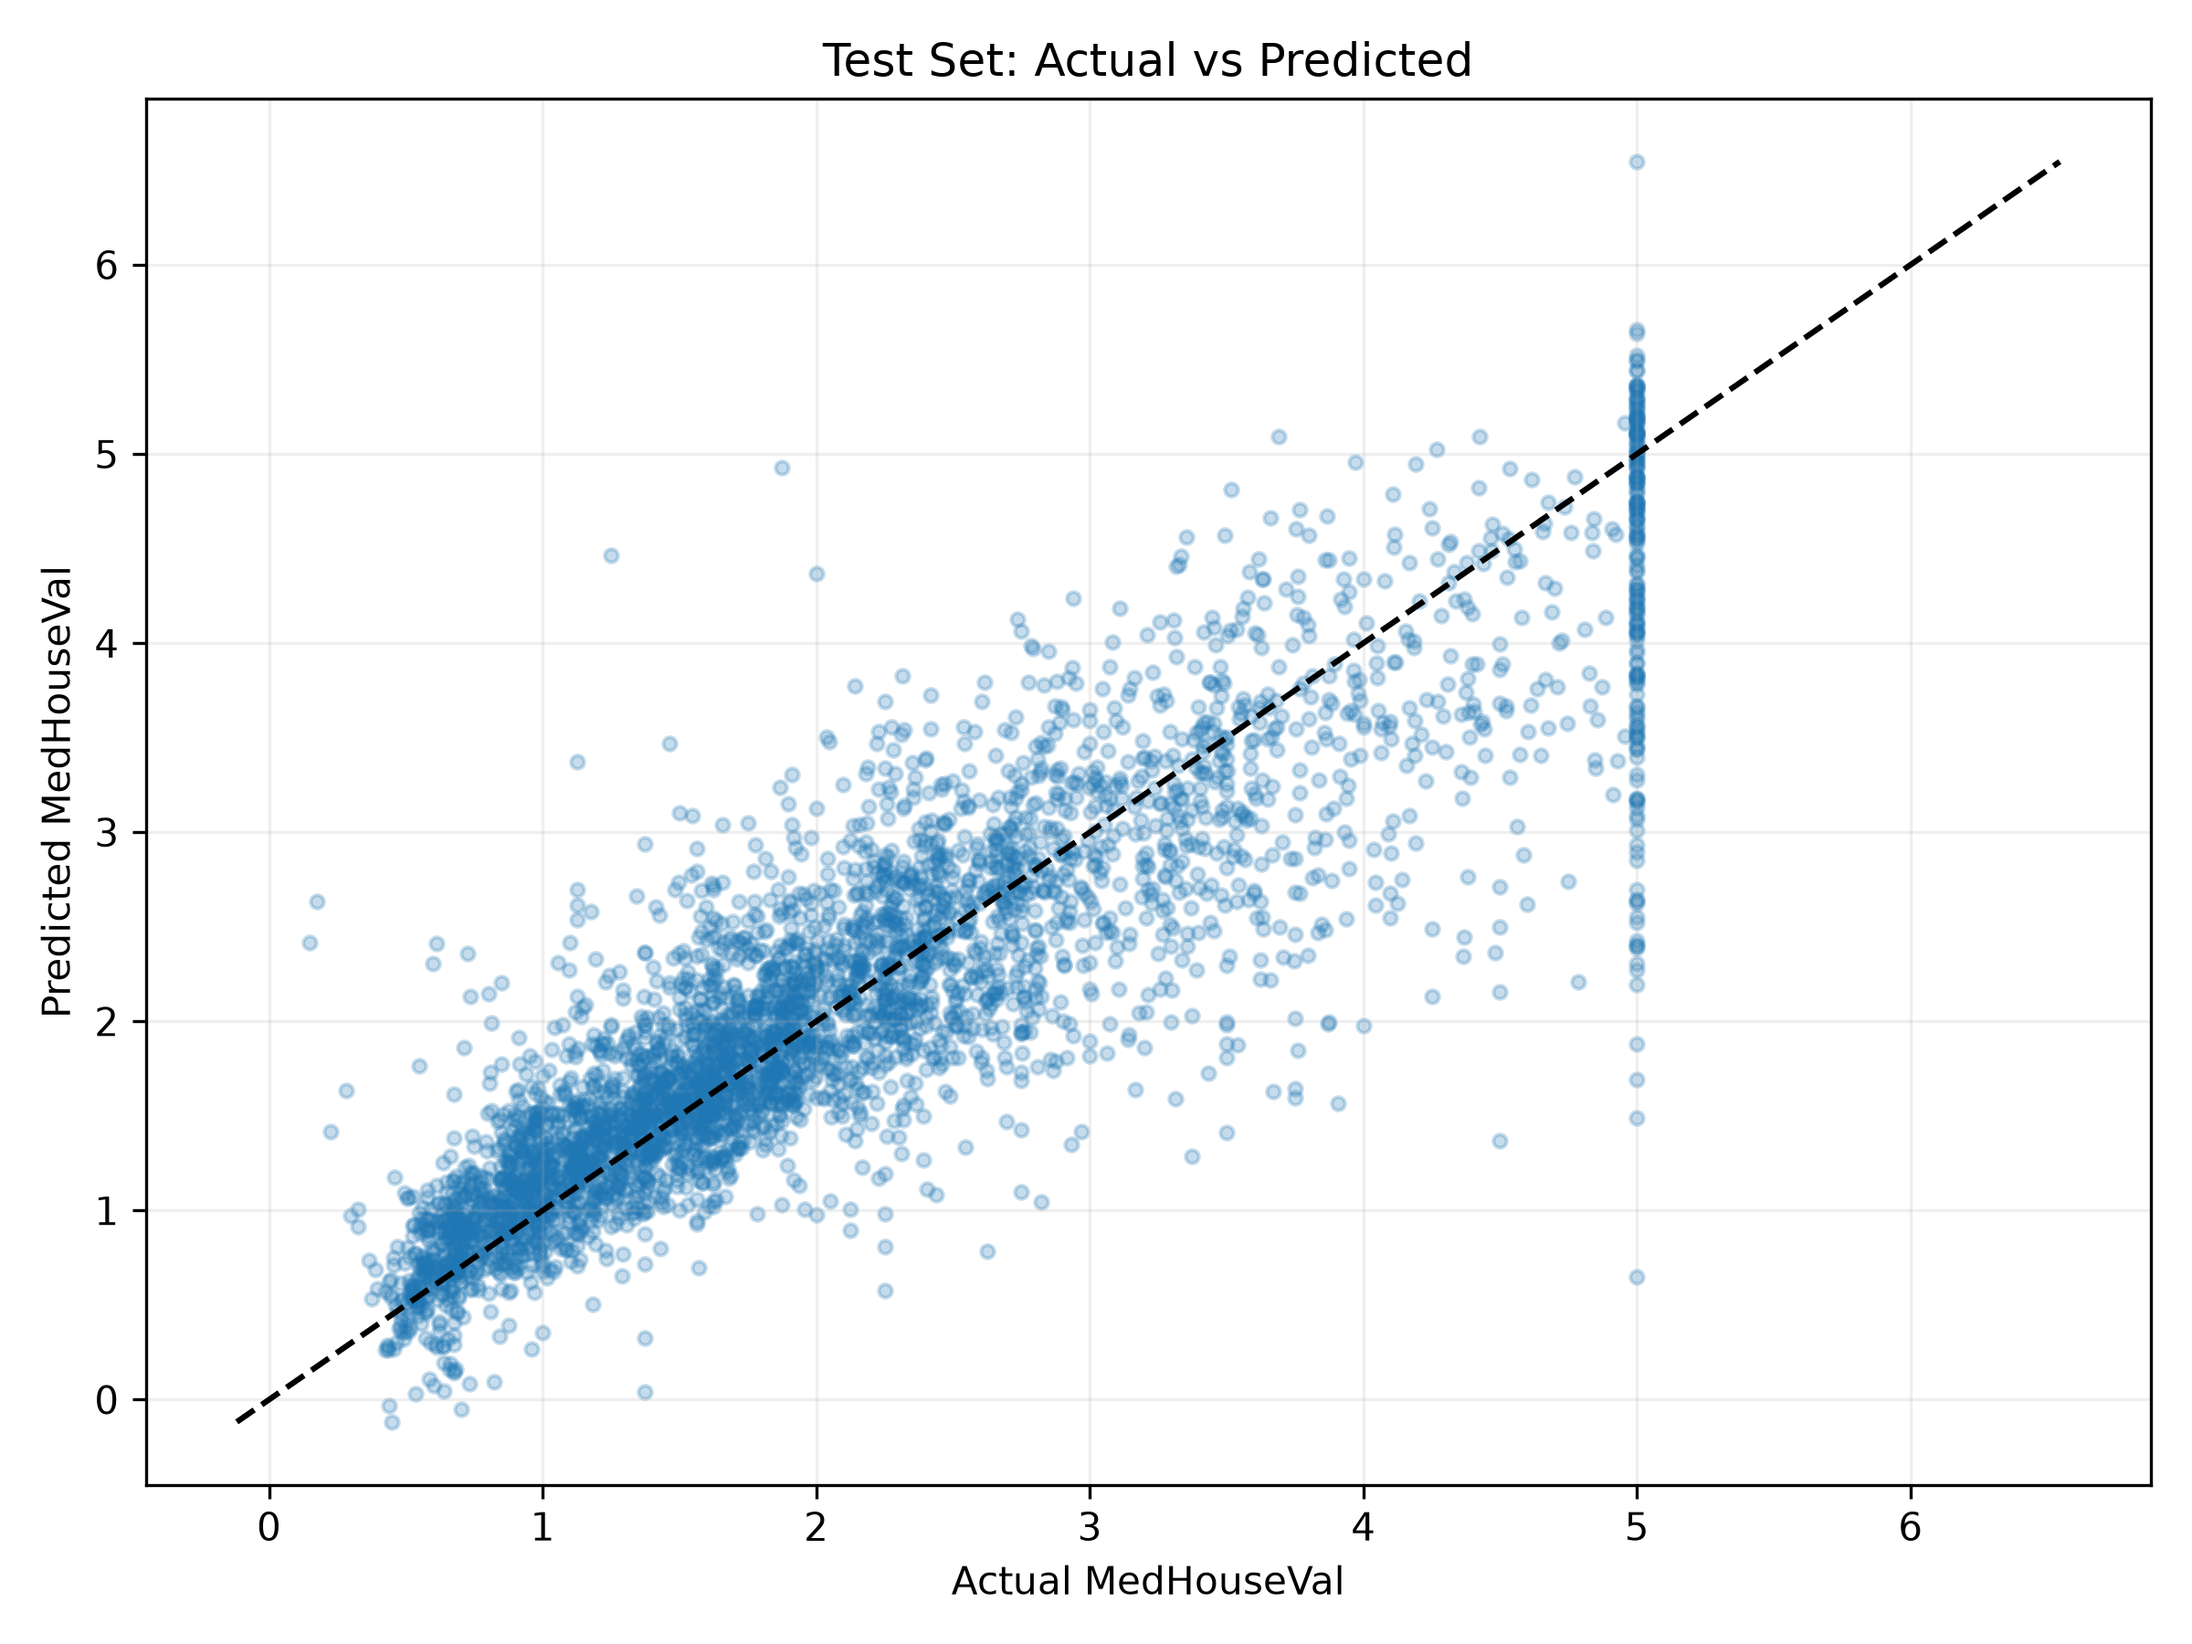
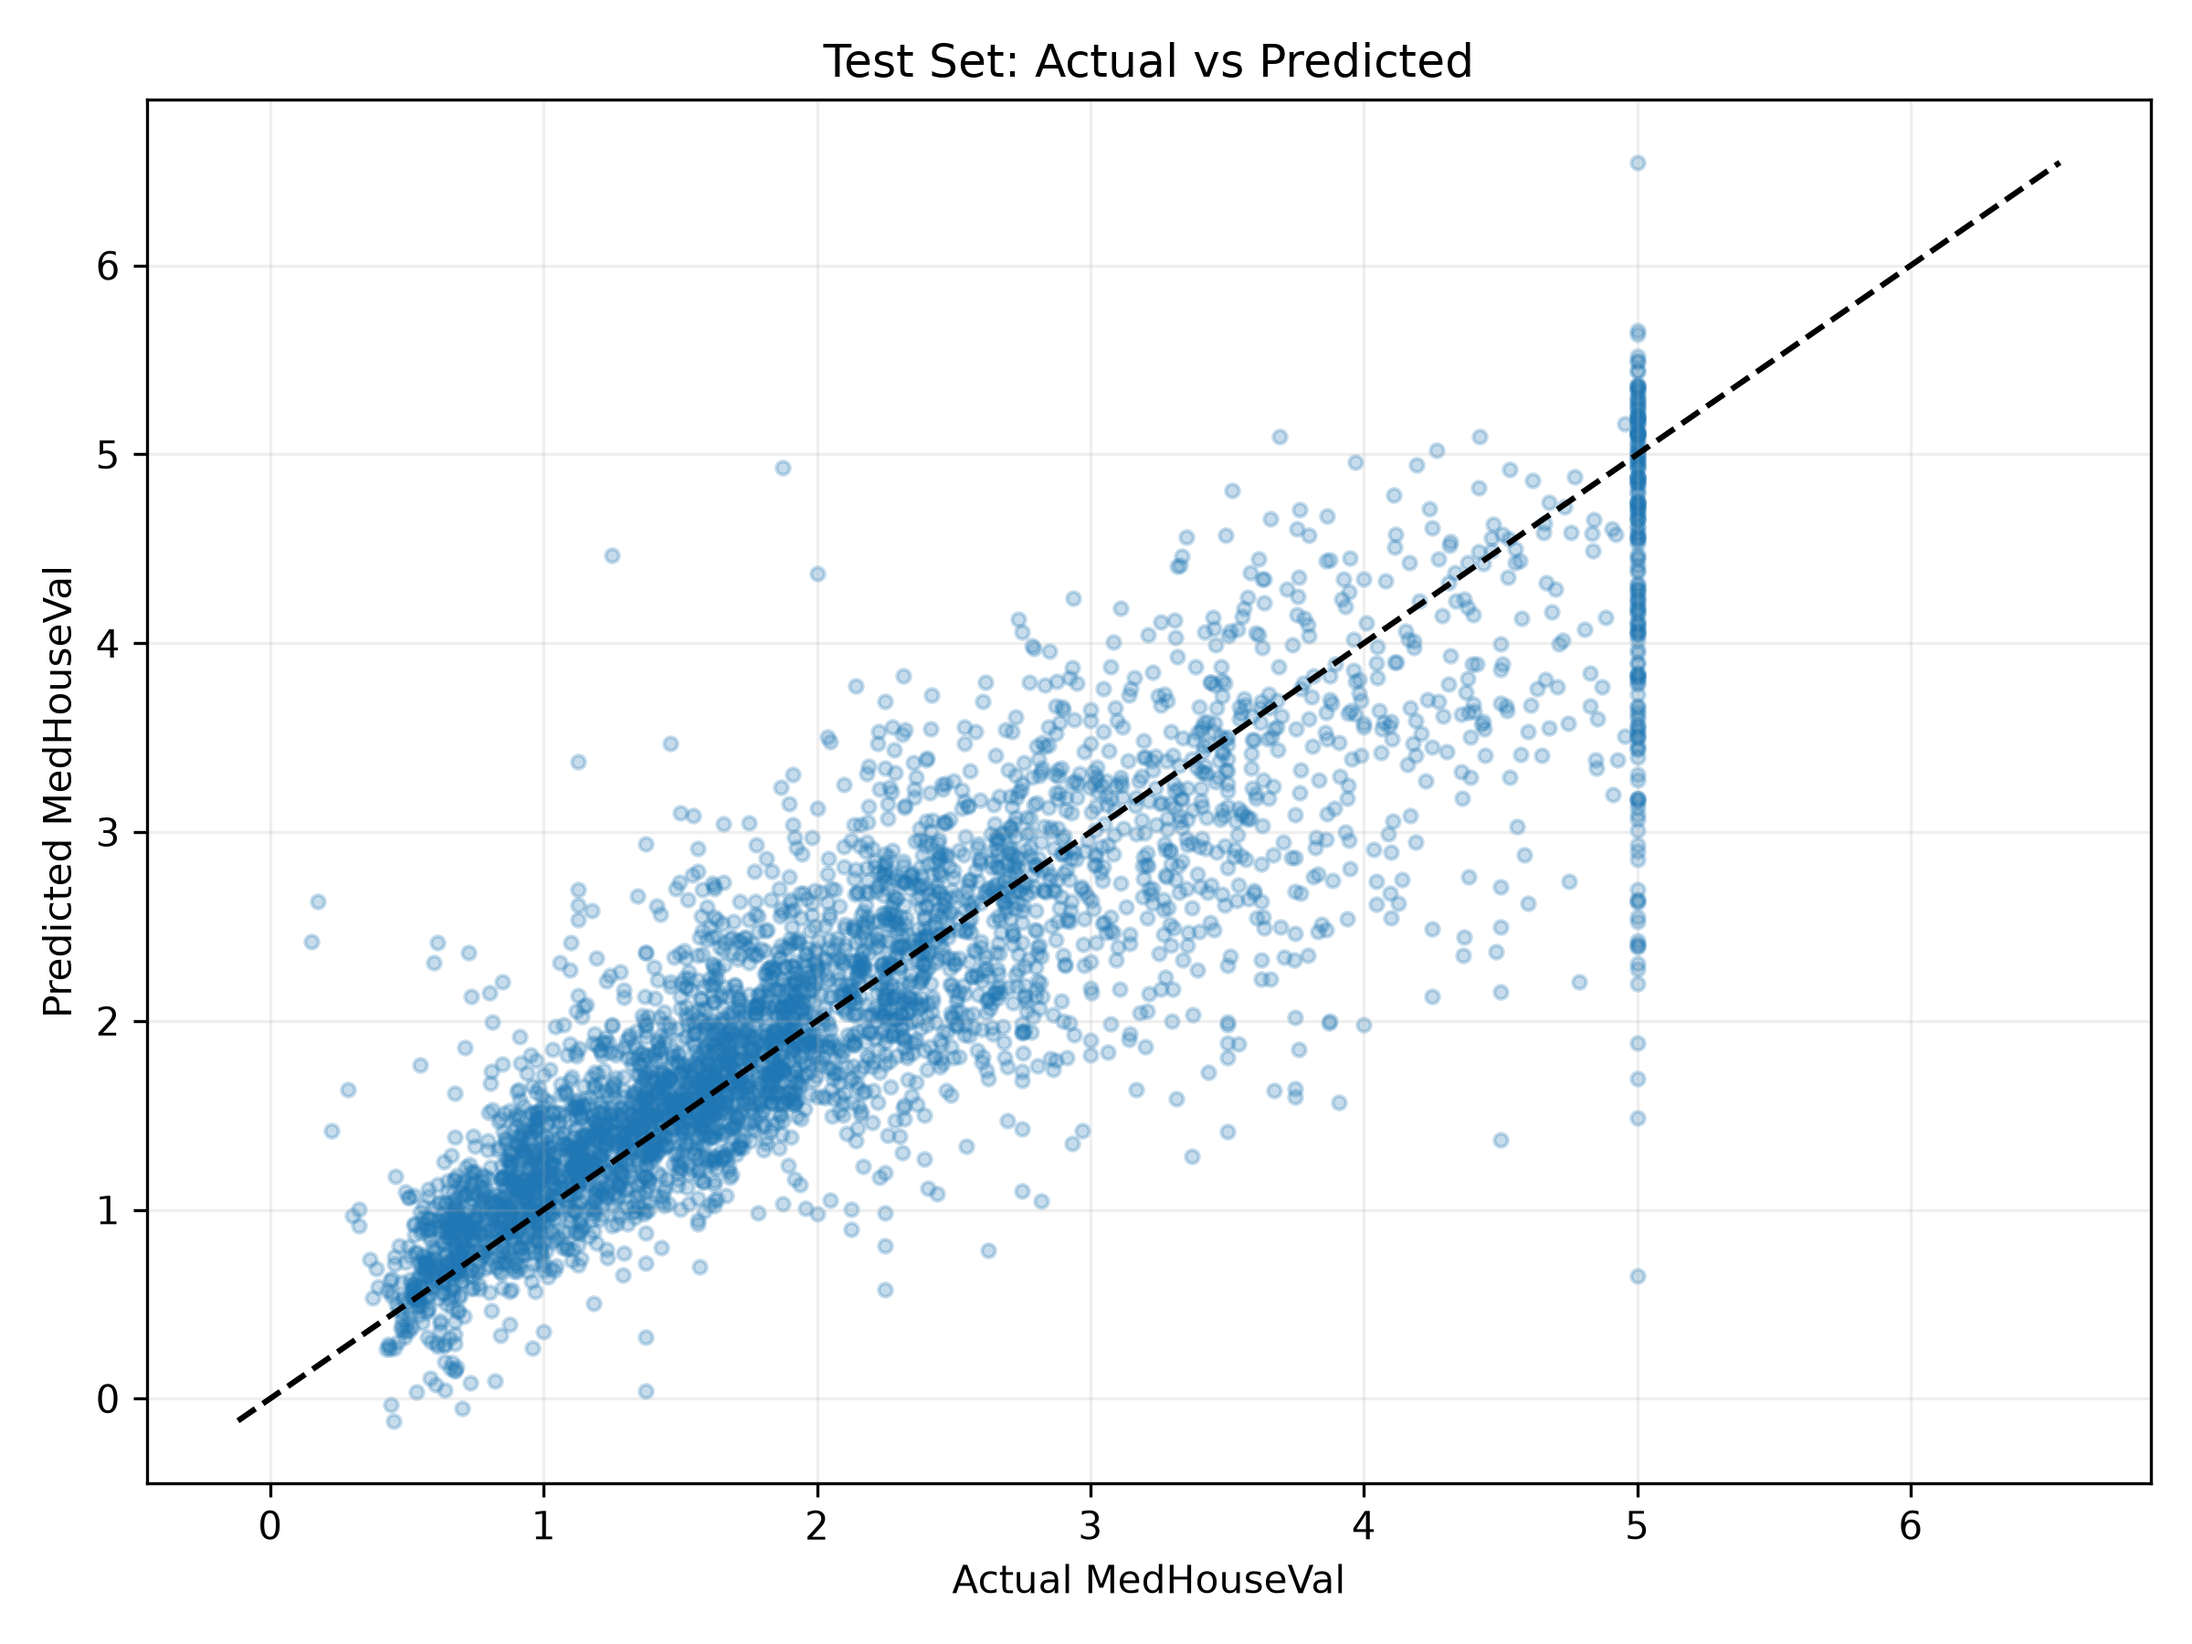
PR5 branch created
requirements met for project, completed in branch PR 5

diff --git a/src/plots.py b/src/plots.py
@@ -17,7 +17,7 @@ from sklearn.model_selection import train_test_split
 from sklearn.neural_network import MLPRegressor
 from sklearn.pipeline import make_pipeline
 from sklearn.preprocessing import StandardScaler
-from sklearn.metrics import r2_score
+from sklearn.metrics import mean_absolute_error, mean_squared_error, r2_score
 
 # Define features (X) and target (y)
 X = df.drop('MedHouseVal', axis=1)
@@ -41,6 +41,7 @@ model = make_pipeline(
 		n_iter_no_change=10,
 		random_state=42,
 		max_iter=500,
+		learning_rate_init=0.001,
 	),
 )
 model.fit(X_train, y_train)
@@ -48,8 +49,46 @@ model.fit(X_train, y_train)
 y_train_pred = model.predict(X_train)
 y_pred = model.predict(X_test)
 mlp = model[-1]
-print(f"MLP test R^2: {r2_score(y_test, y_pred):.4f}")
-print(f"Training iterations: {mlp.n_iter_}")
+
+# Train a second model with a higher learning rate.
+tuned_model = make_pipeline(
+	StandardScaler(),
+	MLPRegressor(
+		hidden_layer_sizes=(100,),
+		early_stopping=True,
+		validation_fraction=0.1,
+		n_iter_no_change=10,
+		random_state=42,
+		max_iter=500,
+		learning_rate_init=0.01,
+	),
+)
+tuned_model.fit(X_train, y_train)
+y_train_tuned_pred = tuned_model.predict(X_train)
+y_tuned_pred = tuned_model.predict(X_test)
+tuned_mlp = tuned_model[-1]
+
+def print_metrics(name, actual_train, predicted_train, actual_test, predicted_test, iterations):
+	print(f"\n{name} (training iterations: {iterations})")
+	for split, actual, predicted in (
+		("Train", actual_train, predicted_train),
+		("Test", actual_test, predicted_test),
+	):
+		print(
+			f"{split}: R^2={r2_score(actual, predicted):.4f}, "
+			f"MAE={mean_absolute_error(actual, predicted):.4f}, "
+			f"RMSE={mean_squared_error(actual, predicted) ** 0.5:.4f}"
+		)
+
+print_metrics("Baseline model (learning rate 0.001)", y_train, y_train_pred, y_test, y_pred, mlp.n_iter_)
+print_metrics(
+	"Tuned model (learning rate 0.01)",
+	y_train,
+	y_train_tuned_pred,
+	y_test,
+	y_tuned_pred,
+	tuned_mlp.n_iter_,
+)
 
 # Plot actual versus predicted values for the training set.
 fig, ax = plt.subplots(figsize=(8, 6))

diff --git a/README.md b/README.md
@@ -1,2 +1,6 @@
 # A02-trp19006-rch18001
+The project trains an MLP regressor for the California housing data set and builds plots to visualize actual vs predicted for the training set and test set
 
+Run the plots.py file which contains the code and find the resulting PNG files in the figs folder
+
+Partners: Ryan Holland and Tiffany Palmisano
